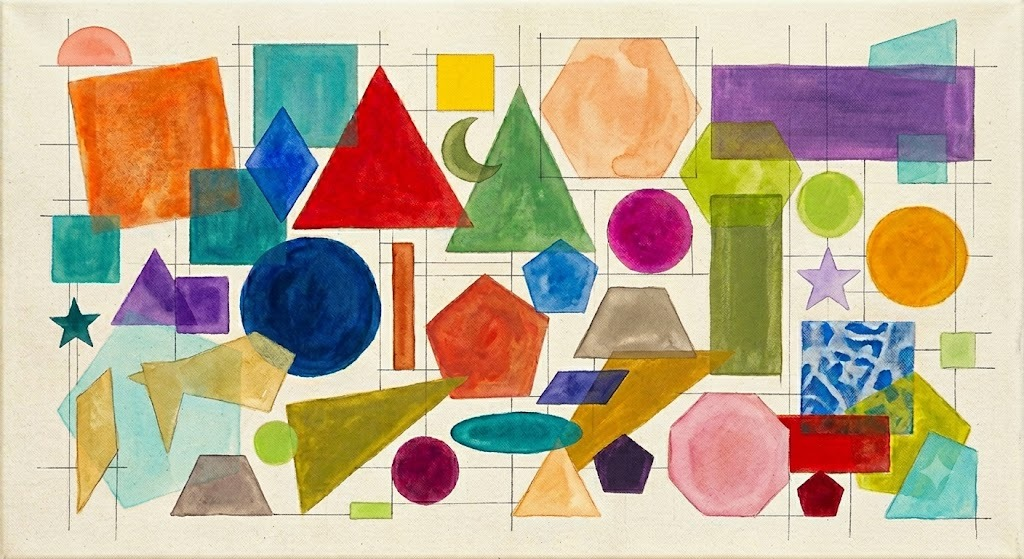
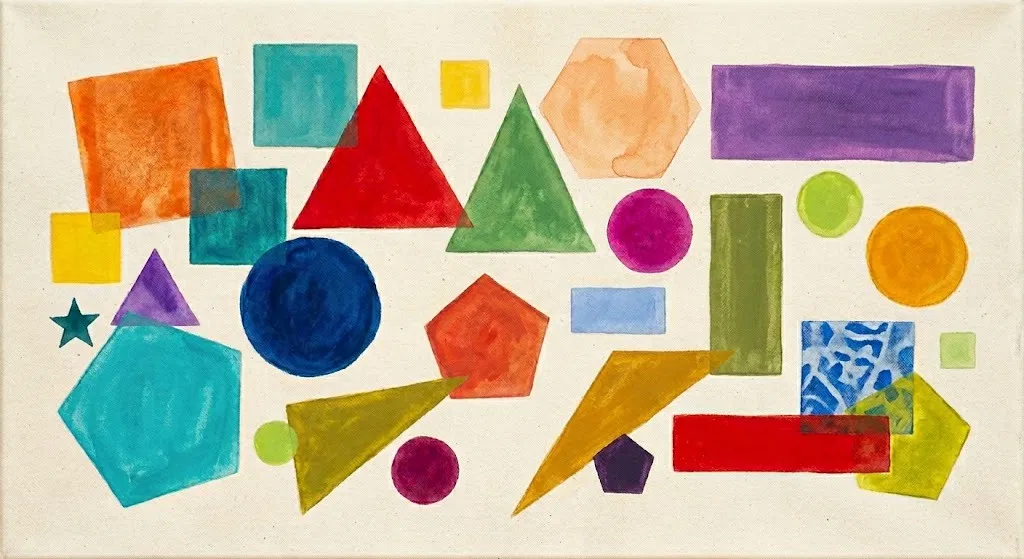
Add files via upload

diff --git a/index.html b/index.html
@@ -245,21 +245,21 @@
 
         // Exactamente 4 preguntas de selección múltiple
         const questions = [{
-            text: '¿Cuántas figuras de color verde hay en la imagen?',
-            options: ['7', '8', '9', '10'],
-            answer: '8'
+            text: '¿Cuántos rectángulos morados hay en la imagen?',
+            options: ['0', '1', '2', '3'],
+            answer: '1'
         }, {
             text: '¿Cuántos cuadrados hay en la imagen?',
-            options: ['6', '7', '8', '9'],
-            answer: '7'
-        }, {
-            text: '¿Cuántos círculos hay en la imagen?',
             options: ['4', '5', '6', '7'],
             answer: '5'
         }, {
-            text: '¿Cuántos triángulos hay en la imagen?',
-            options: ['7', '8', '9', '10'],
-            answer: '8'
+            text: '¿Cuántos círculos hay en la imagen?',
+            options: ['5', '6', '7', '8'],
+            answer: '6'
+        }, {
+            text: '¿Cuántos rombos hay en la imagen?',
+            options: ['0', '1', '2', '3'],
+            answer: '0'
         }];
         // Verificación: debe ser 4
 
@@ -408,9 +408,14 @@
             </tr>`;
             }).join('');
 
+            var tiempoTotal = results.reduce((a, r) => a + Number(r.tiempo_segundos), 0).toFixed(2);
+            var grupoLabel = document.querySelector('#group-select option:checked').text;
+            var generoLabel = participantGender;
+
             container.innerHTML =
                 `<h2>Prueba finalizada</h2>
              <p>Gracias por tu participación.</p>
+             <p><strong>Grupo:</strong> ${grupoLabel} &nbsp;|&nbsp; <strong>Género:</strong> ${generoLabel}</p>
              <p><strong>${correctas} de ${results.length}</strong> respuestas correctas.</p>
              <table>
                  <thead>
@@ -423,6 +428,9 @@
                  </thead>
                  <tbody>${rows}</tbody>
              </table>
+            <p style="margin-top:16px; color:#555;">
+                <strong>Tiempo total:</strong> ${tiempoTotal} segundos
+            </p>
 `;
 
             // Envío único a Google Sheets con todos los datos al finalizar
@@ -438,12 +446,17 @@
             fetch(APPS_SCRIPT_URL, {
                     method: 'POST',
                     mode: 'no-cors',
-                    headers: {
-                        'Content-Type': 'text/plain;charset=UTF-8'
-                    },
                     body: JSON.stringify(payload)
                 })
-                .then(() => console.log('Petición enviada'))
+                .then(() => {
+                    console.log('Petición enviada');
+                    var p = document.createElement('p');
+                    p.style.color = '#2e7d32';
+                    p.style.fontWeight = 'bold';
+                    p.style.marginTop = '20px';
+                    p.textContent = '✓ Respuestas registradas correctamente.';
+                    container.appendChild(p);
+                })
                 .catch(err => console.error('Error enviando datos:', err));
         }
     </script>
